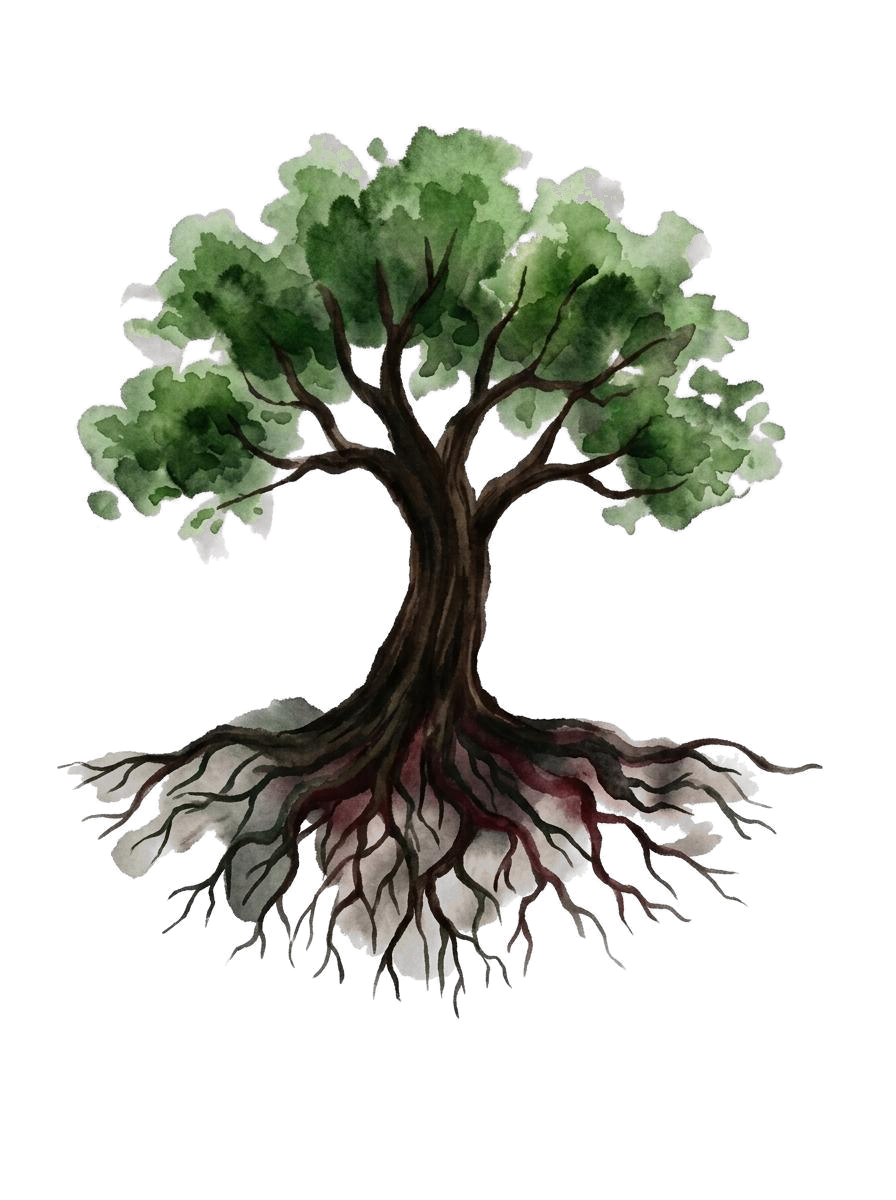
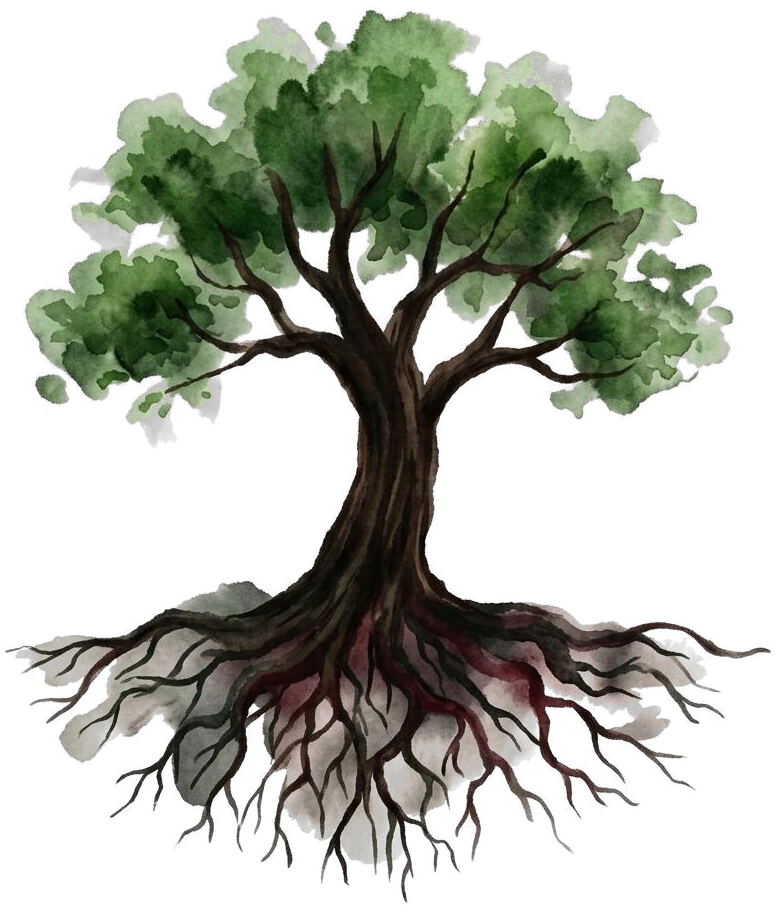
Tighten tree image spacing and lift Who We Are block

diff --git a/index.html b/index.html
@@ -69,14 +69,14 @@ nav.solid .ham span{background:var(--charcoal)}
 .d1{transition-delay:.1s}.d2{transition-delay:.2s}.d3{transition-delay:.3s}.d4{transition-delay:.4s}.d5{transition-delay:.5s}
 
 /* ABOUT */
-#about{padding:44px 0 8px;background:#fff}
+#about{padding:28px 0 8px;background:#fff}
 .about-grid{display:grid;grid-template-columns:.86fr 1.14fr;gap:72px;align-items:center}
 .aimg{aspect-ratio:3/4;overflow:hidden;position:relative;background:#C4A882}
 .aimg img{width:100%;height:100%;object-fit:cover;object-position:center;transition:transform .7s ease;display:block}
 .aimg:hover img{transform:scale(1.03)}
-@media(min-width:861px){.aimg{top:-110px}}
+@media(min-width:861px){.aimg{top:-94px}}
 .acap{position:absolute;bottom:20px;left:20px;font-family:'Cormorant Garamond',serif;font-style:italic;font-size:13px;color:rgba(255,255,255,.7);letter-spacing:.08em}
-.about-text{padding:20px 0}
+.about-text{padding:0}
 .belief-statement{font-family:'Cormorant Garamond',serif;font-style:italic;font-size:clamp(17px,1.8vw,21px);line-height:1.75;color:var(--charcoal);margin:24px 0 28px;padding-left:20px;border-left:2px solid var(--red)}
 .values-list{margin-top:28px;display:flex;flex-direction:column;gap:10px}
 .values-list li{font-family:'Jost',sans-serif;font-weight:300;font-size:11px;letter-spacing:.18em;text-transform:uppercase;color:var(--grey);list-style:none;padding-left:16px;position:relative}
@@ -86,10 +86,10 @@ nav.solid .ham span{background:var(--charcoal)}
 #belief{padding:52px 0 0;background:var(--cream)}
 .belief-inner{max-width:660px;margin:0 auto}
 .belief-inner .para{margin-top:0}
-.belief-bold{font-family:'EB Garamond',serif;font-weight:700;font-size:clamp(21px,2.3vw,27px);line-height:1.45;letter-spacing:.02em;color:var(--charcoal);text-align:center;margin:30px 0 0}
-.belief-inner .belief-bold+.para{margin-top:22px}
-.belief-tree{width:100%;max-width:520px;margin:34px auto 0;aspect-ratio:3/4;overflow:hidden;background:transparent}
-.belief-tree img{width:100%;height:100%;object-fit:cover;object-position:center;transition:transform .7s ease;display:block}
+.belief-bold{font-family:'EB Garamond',serif;font-weight:700;font-size:clamp(21px,2.3vw,27px);line-height:1.45;letter-spacing:.02em;color:var(--charcoal);text-align:center;margin:14px 0 0}
+.belief-inner .belief-bold+.para{margin-top:18px}
+.belief-tree{width:100%;max-width:445px;margin:34px auto 0}
+.belief-tree img{width:100%;height:auto;display:block;transition:transform .7s ease}
 .belief-tree:hover img{transform:scale(1.03)}
 
 /* ECOSYSTEM */
